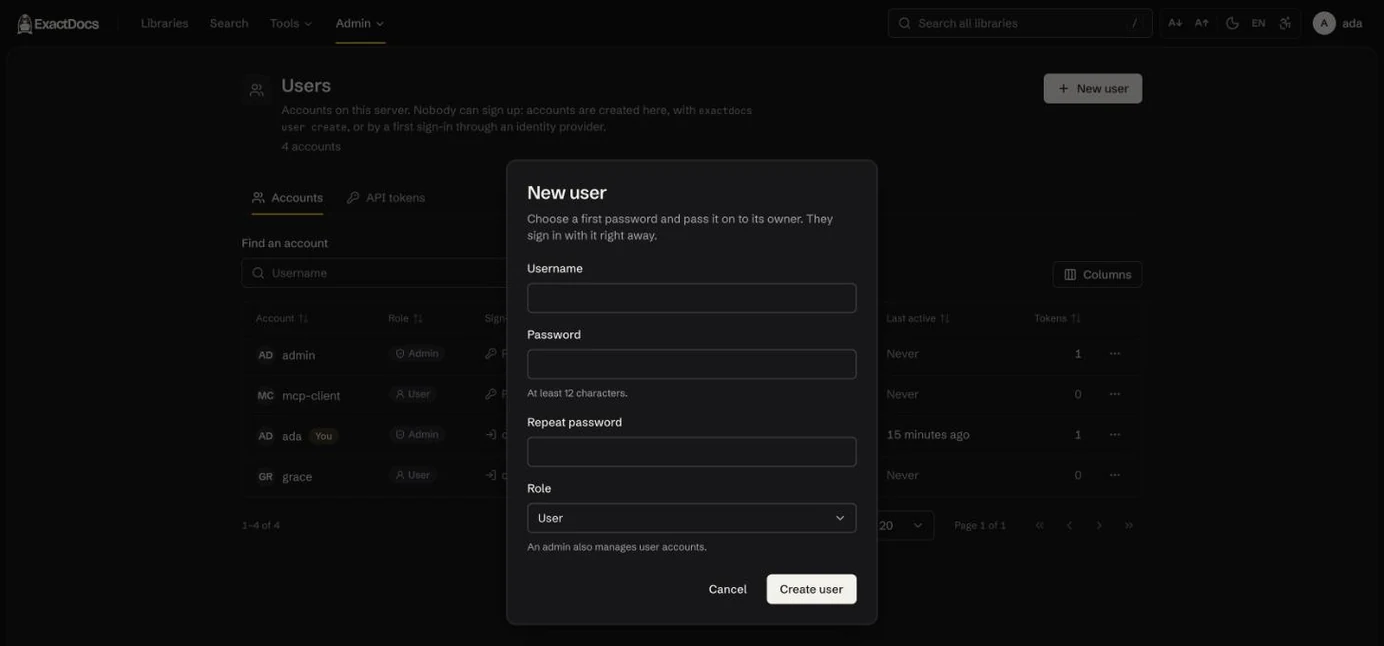
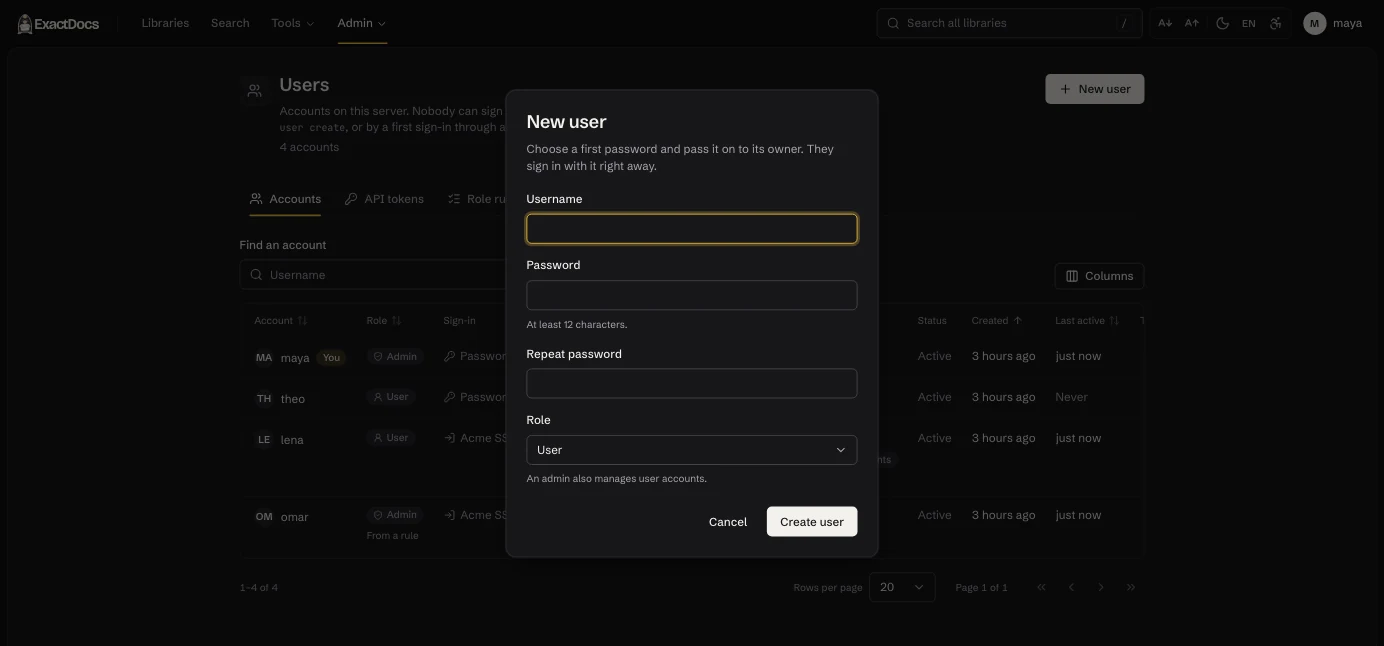
docs: retake the New user screenshot over the current users page (#559)
The New user dialog sits over the users page, and the committed picture still showed the page from before #629: two tabs and no Rules column. `just screenshots` now takes it with the other users pictures, at the same width and scale, so the file keeps its 1384x646 size.

Every other screenshot was compared against a local render of develop and still shows the current UI.

Closes #559

diff --git a/e2e/screenshots.ts b/e2e/screenshots.ts
@@ -271,6 +271,16 @@ const USERS_SHOTS: Shot[] = [
       await expect(page.getByRole("table", { name: "Role rules" })).toBeVisible();
     },
   },
+  {
+    name: "new-user",
+    height: 777,
+    open: async (page) => {
+      await page.goto("/users");
+      await expect(page.getByText("group platform → instance admin").first()).toBeVisible();
+      await page.getByRole("button", { name: "New user" }).click();
+      await expect(page.getByRole("dialog", { name: "New user" })).toBeVisible();
+    },
+  },
 ];
 
 /** A signed-in page in each theme; `deviceScaleFactor` overrides the configuration's. */
